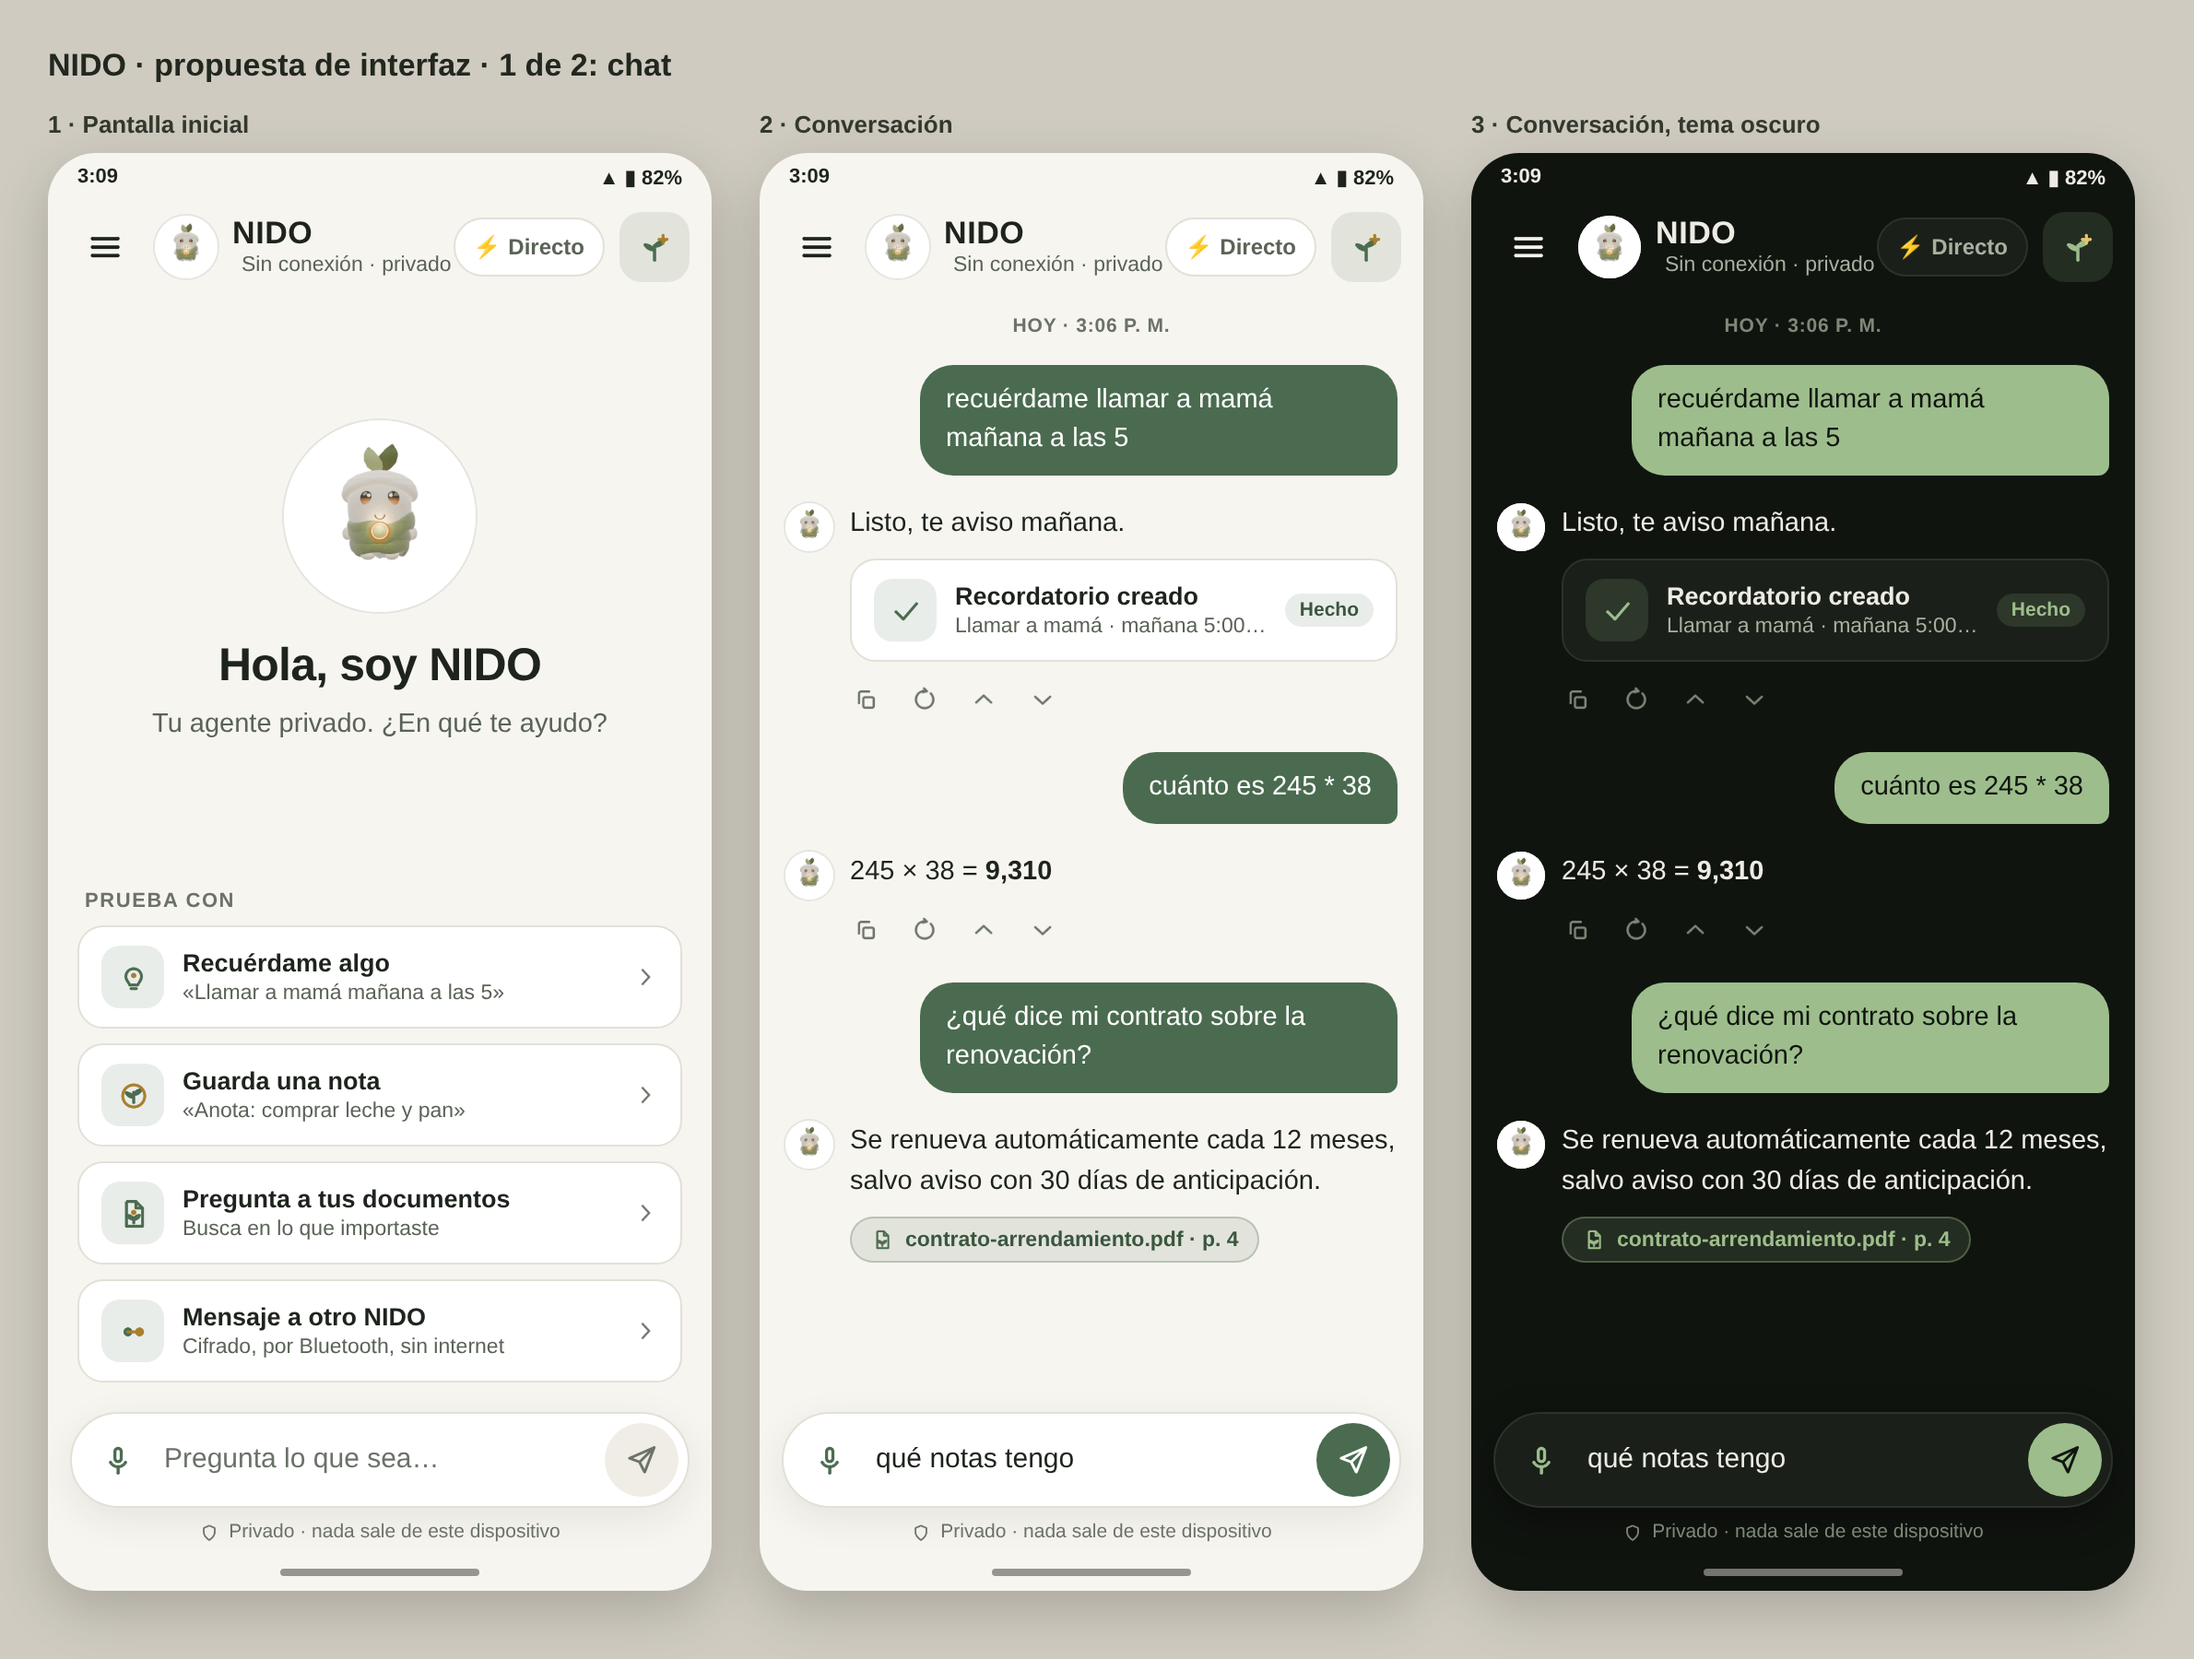
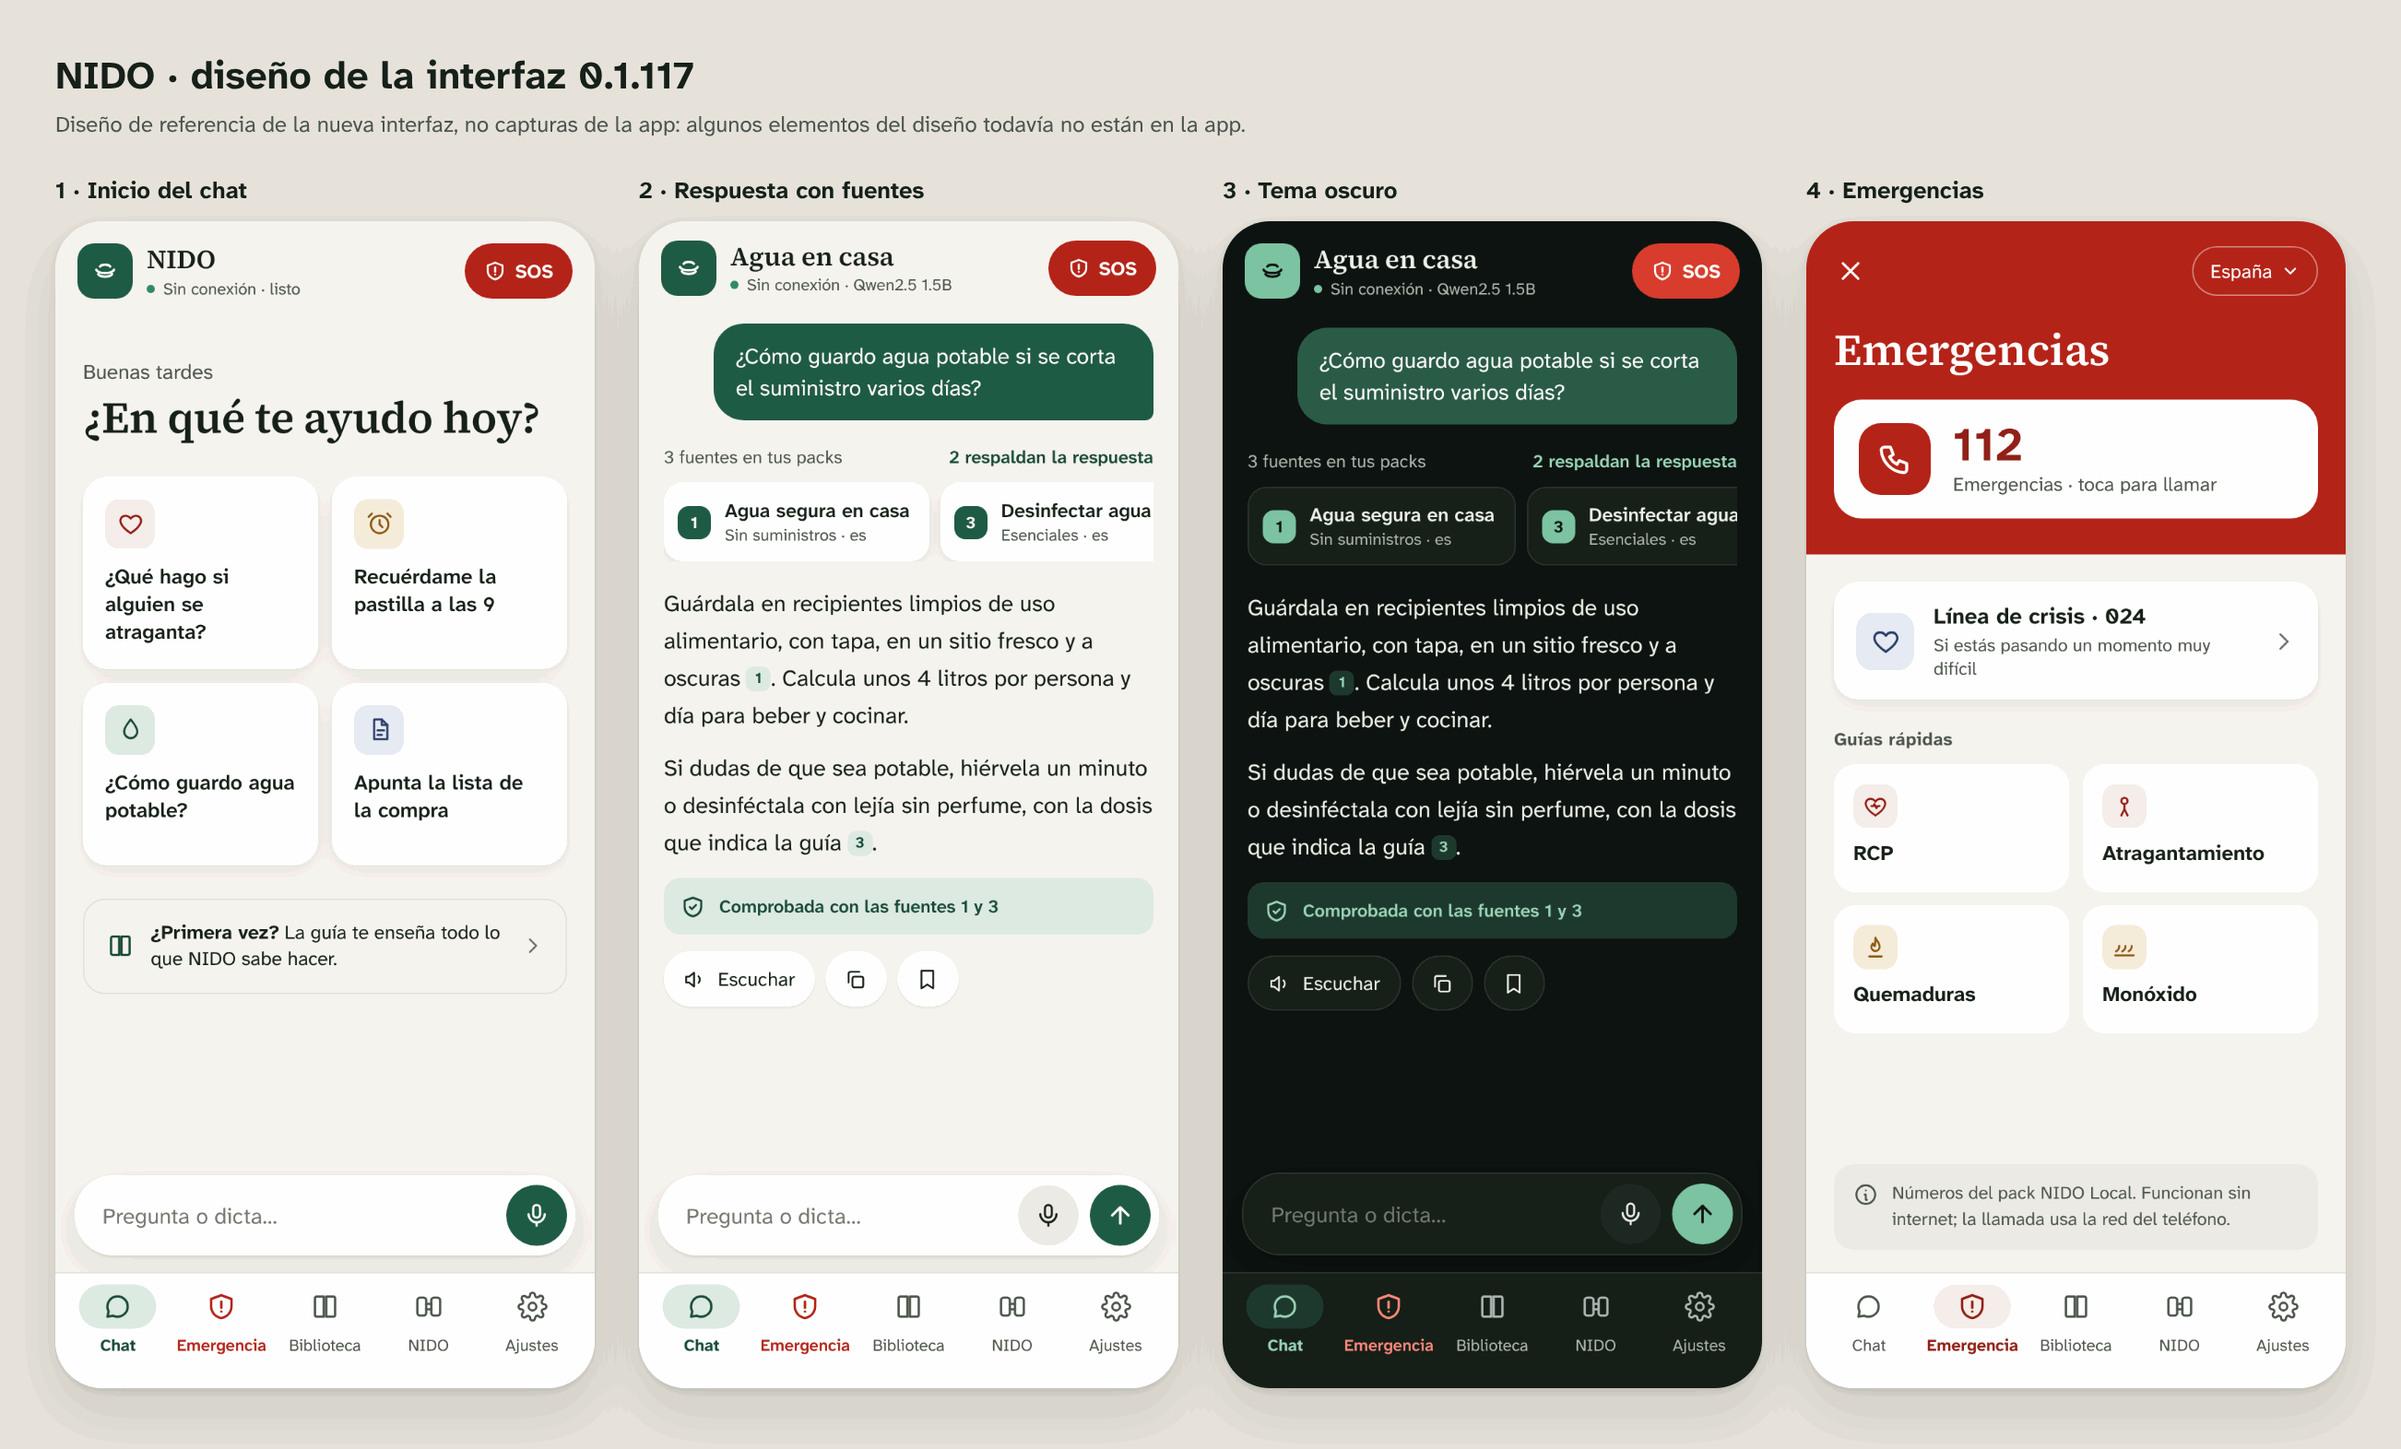
README: imagen del diseño de la interfaz 0.1.117 en lugar de las maquetas de la v0.1.1
Contexto: el dueño pidió actualizar las imágenes de la app en el repo y
eligió usar las del diseño, porque no hay capturas del aparato.
docs/visual/ui-chat-design.png pasa a ser una composición de cuatro
pantallas del lienzo de diseño 0.1.117 (inicio del chat, respuesta con
fuentes, tema oscuro y Emergencias), renderizadas con las fuentes que
van dentro del APK.

- La imagen y los pies de README.md y README.es.md dicen que es diseño y
  no capturas, y que algunos elementos del diseño todavía no están en la
  app.
- Paleta reducida a 256 colores: 179 KB (la anterior pesaba más).

Bugs/Hallazgos:
- El pie anterior decía «maquetas del chat en v0.1.1-alpha»: tenía más
  de cien versiones y ya no se parecía a la app.
- Del diseño, el botón SOS de la cabecera, la franja «Comprobada con las
  fuentes» y el botón «Escuchar» no están implementados en la app; por
  eso el pie lo advierte.

Evidencia: imagen revisada a ojo (2604×1572); textos de los dos README
en paridad es/en.

Claude-Session: https://claude.ai/code/session_01YBkPWFUV8wKSRUsSfvmLB4

diff --git a/README.es.md b/README.es.md
@@ -17,9 +17,9 @@ Un asistente de IA privado que funciona por completo en tu teléfono Android.</p
 </p>
 
 <p align="center">
-  <img src="docs/visual/ui-chat-design.png" alt="Chat de NIDO: pantalla inicial, una conversación y tema oscuro" width="820">
+  <img src="docs/visual/ui-chat-design.png" alt="Diseño de NIDO 0.1.117: inicio del chat, una respuesta con fuentes, tema oscuro y la pestaña Emergencia" width="820">
 </p>
-<p align="center"><sub>Maquetas de diseño del chat en v0.1.1-alpha. Las pantallas publicadas pueden diferir en detalles.</sub></p>
+<p align="center"><sub>Diseño de la interfaz 0.1.117 (no son capturas). Algunos elementos del diseño todavía no están en la app y las pantallas publicadas pueden diferir en detalles.</sub></p>
 
 ## Qué es NIDO
 

diff --git a/README.md b/README.md
@@ -17,9 +17,9 @@ A private AI assistant that runs entirely on your Android phone.</p>
 </p>
 
 <p align="center">
-  <img src="docs/visual/ui-chat-design.png" alt="NIDO chat: first screen, a conversation, and dark theme" width="820">
+  <img src="docs/visual/ui-chat-design.png" alt="Design of NIDO 0.1.117: chat start, an answer with sources, dark theme, and the Emergency tab" width="820">
 </p>
-<p align="center"><sub>Design mockups of the chat in v0.1.1-alpha. The shipped screens can differ in details.</sub></p>
+<p align="center"><sub>Design of the 0.1.117 interface (not screenshots). Some elements in the design are not in the app yet, and the shipped screens can differ in details.</sub></p>
 
 ## What NIDO is
 
